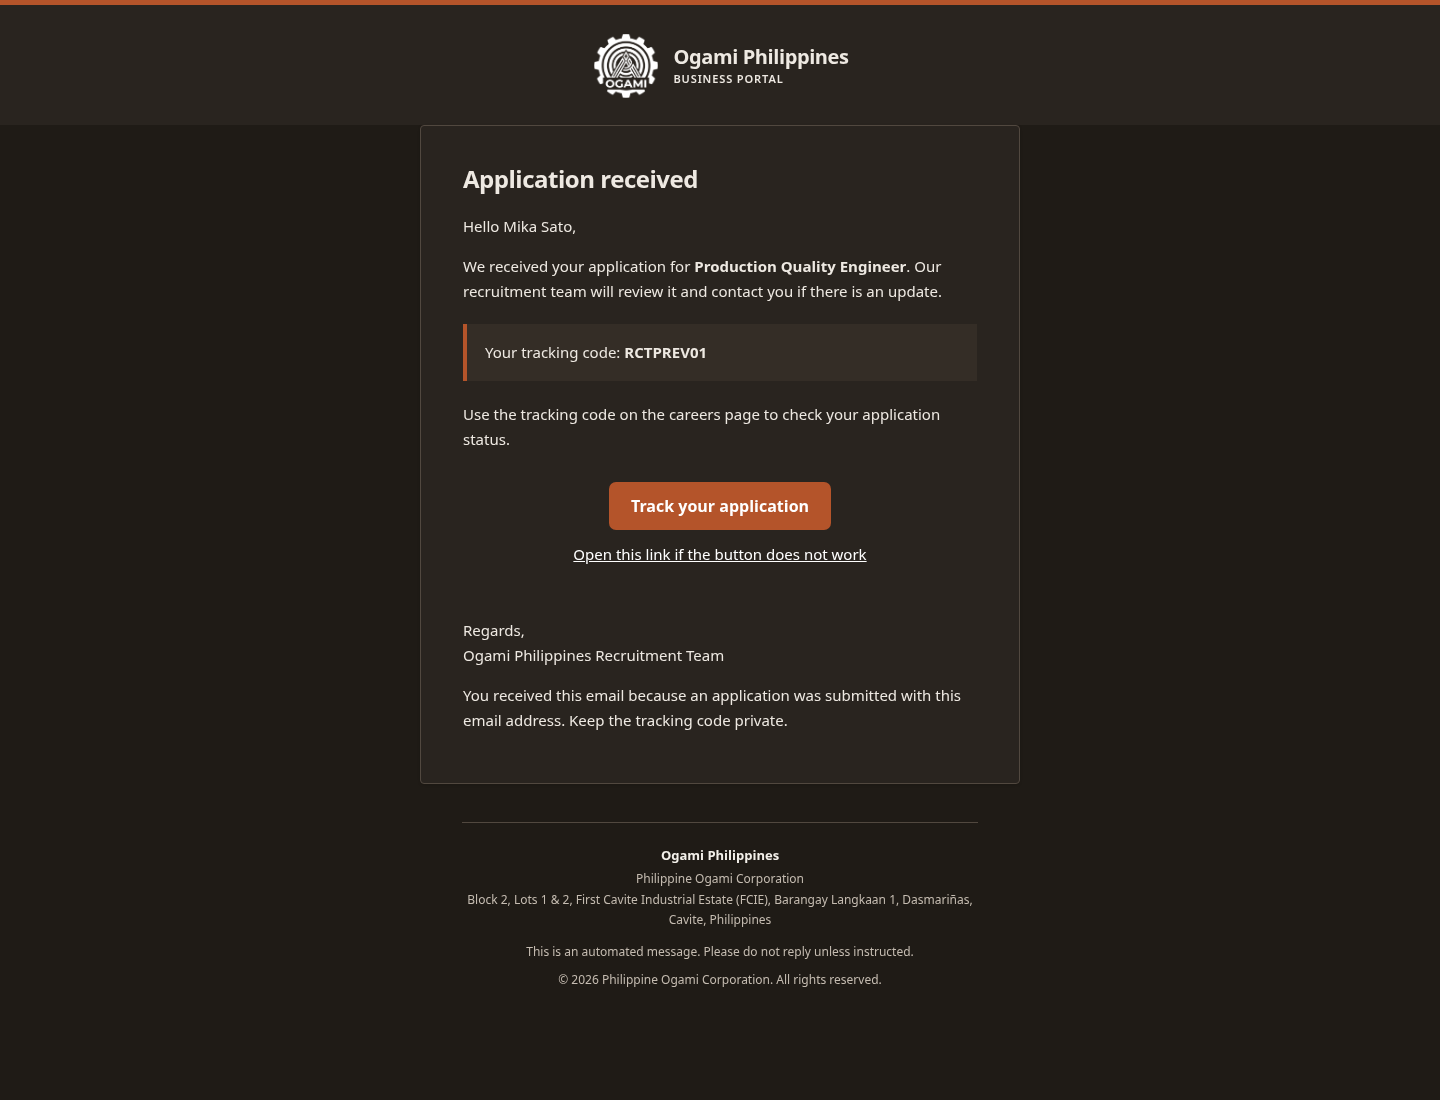
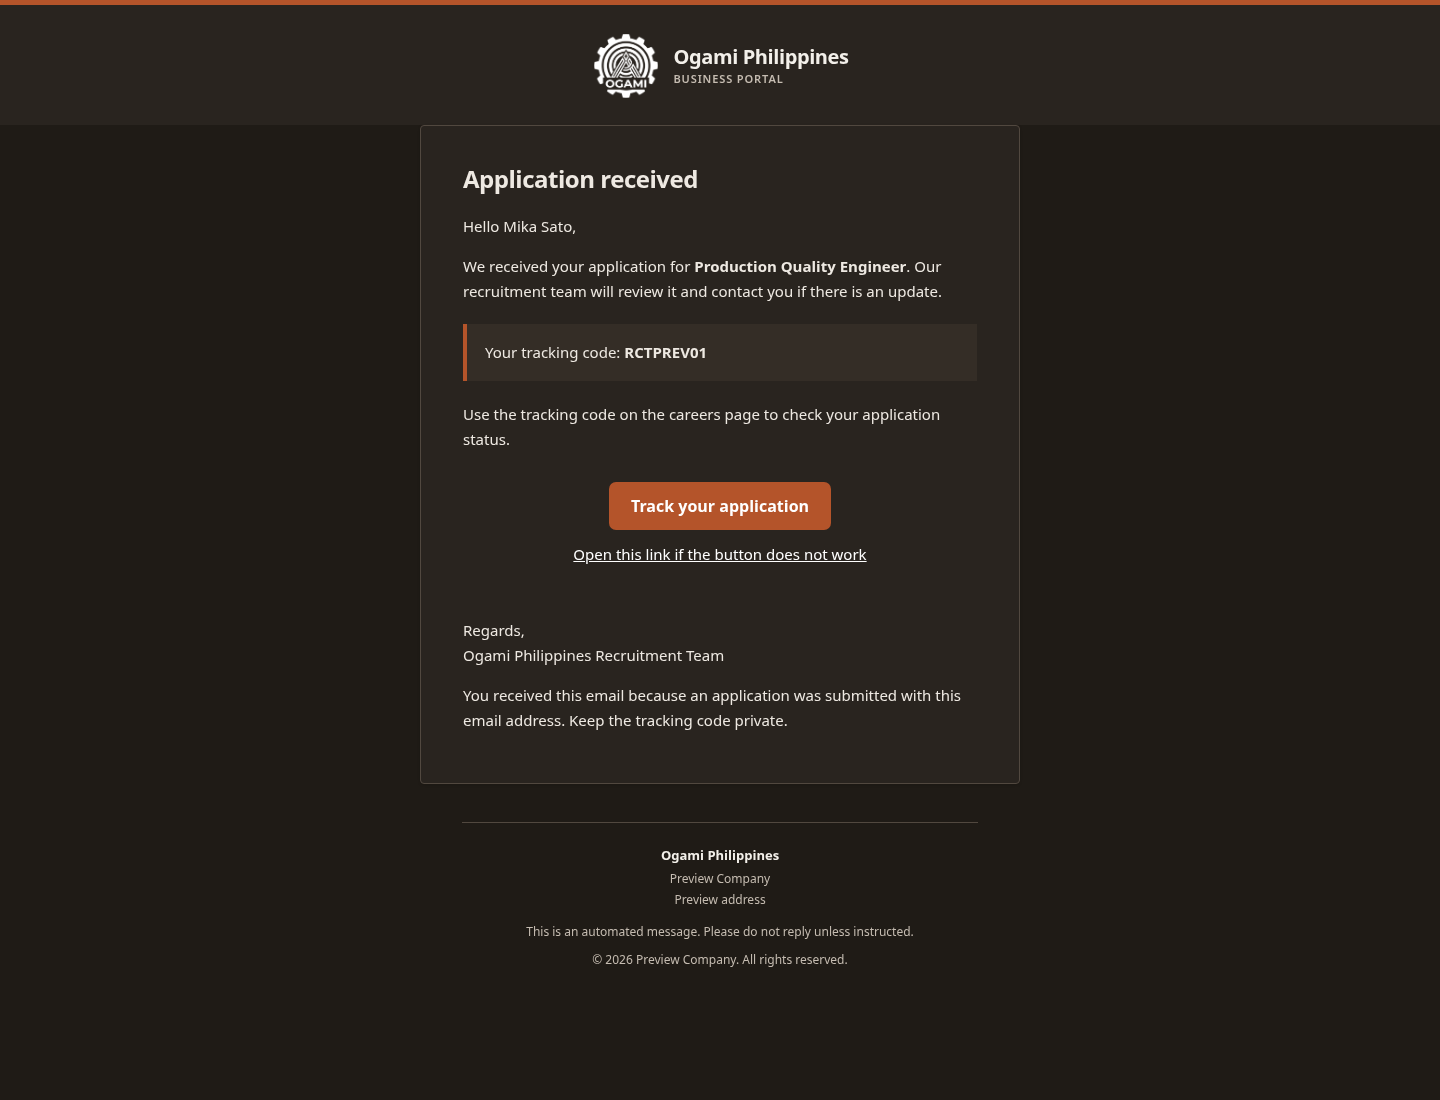
docs(email): refresh candidate lifecycle previews

Changed region(s): [[0.375, 0.7727, 0.6562, 0.8964], [0.4688, 0.0618, 0.5, 0.0927]]

diff --git a/docs/emails/E-012-015-candidate-emails.md b/docs/emails/E-012-015-candidate-emails.md
@@ -15,4 +15,4 @@ Recipient remains the application email supplied by the candidate. Invalid/missi
 
 ## Visual review
 
-Rendered with Laravel Markdown using seeded candidate data; reviewed in Chromium at 1440px and 390px in light/dark color schemes. E-013 was refreshed from its current mailable: landing-page logo appears, CTA and fallback link render once, and no extra raw-URL paragraph appears. No horizontal overflow; details, footer, and plain-text parts present. Each screenshot is in [screenshots](screenshots/): E-012 application received, E-013 status update, E-014 interview scheduled, and E-015 interview details updated. This proves browser rendering only, not Outlook, Gmail, Apple Mail, Yahoo, delivery, or inbox placement.
+Rendered with Laravel Markdown using candidate fixtures; refreshed E-012–E-015 screenshots from their current mailables and reviewed at 1440px/390px in light/dark modes. Landing-page logo, CTA labels, fallback links, detail blocks, and footer are visible; no horizontal overflow. Synthetic company footer values are preview data. Each screenshot is in [screenshots](screenshots/). This proves browser rendering only, not Outlook, Gmail, Apple Mail, Yahoo, delivery, or inbox placement.
